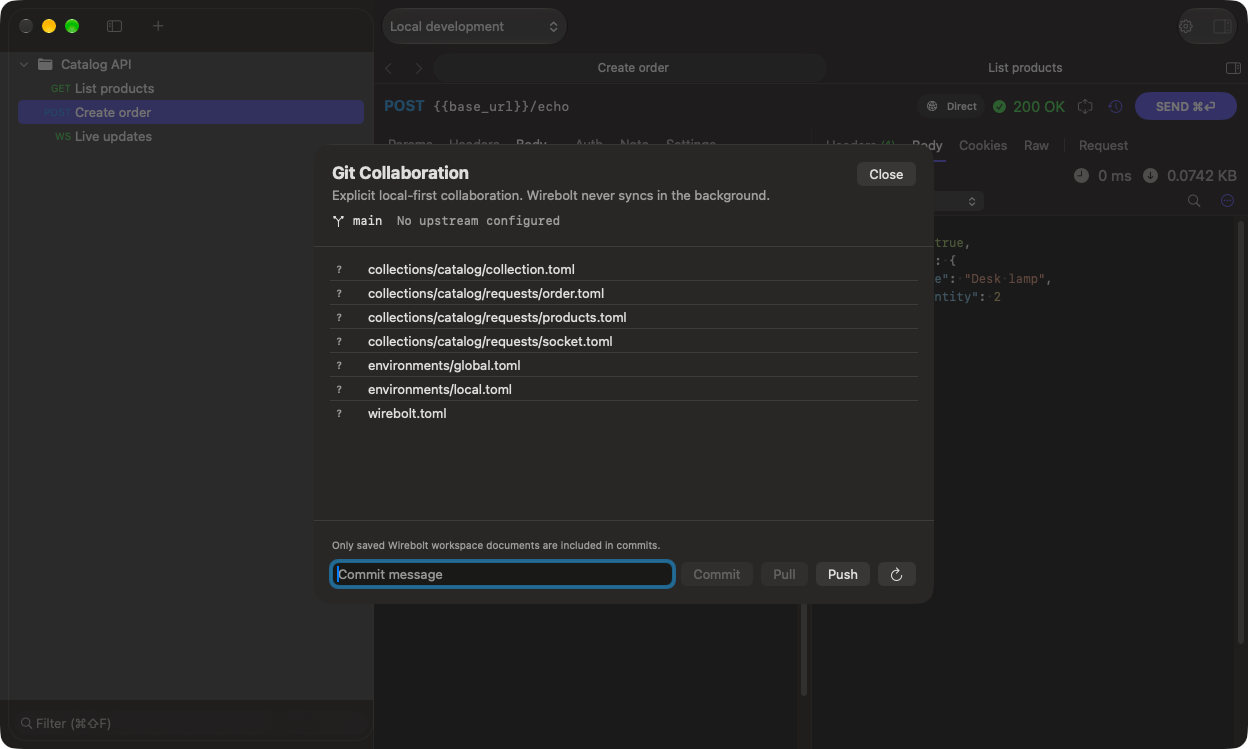
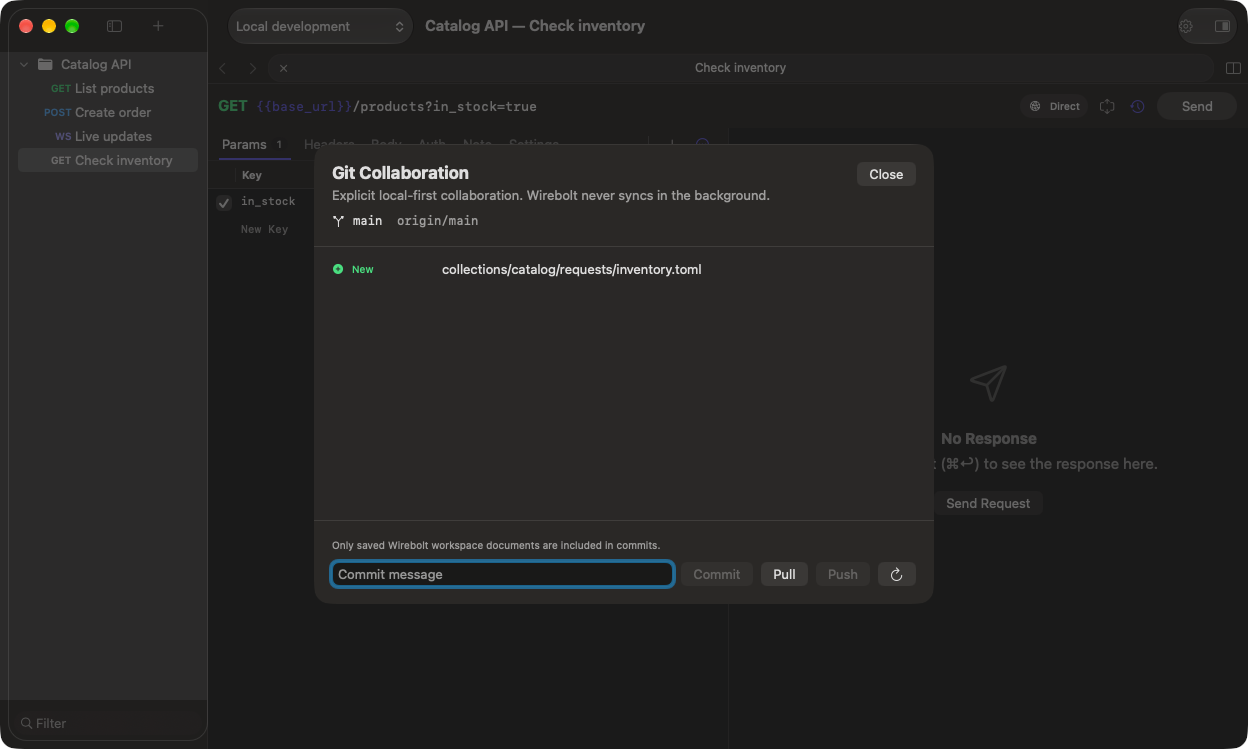
Refresh documentation screenshots for the new interface

diff --git a/docs/assets/README.md b/docs/assets/README.md
@@ -4,7 +4,7 @@
 
 `icon.png` is exported from the app's existing `AppIcon.icns`.
 
-Screenshots show Wirebolt at source revision `0378531`, using a disposable Catalog API workspace and local fixtures. Overview, notes, environments, WebSocket and Git images were captured from the running app window. The proxy image was rendered from the same native settings view and omits the surrounding window. These are actual app views, not design mockups or generated artwork.
+Screenshots show Wirebolt at source revision `324d11a`, using a disposable Catalog API workspace and local fixtures. Overview, notes, environments, WebSocket and Git images were captured from the running app window. The proxy image was rendered from the same native settings view and omits the surrounding window. These are actual app views, not design mockups or generated artwork.
 
 | Image | Demonstrates |
 | --- | --- |
@@ -13,6 +13,6 @@ Screenshots show Wirebolt at source revision `0378531`, using a disposable Catal
 | `screenshots/proxy.png` | Manual workspace proxy configuration; the displayed endpoint is illustrative, not a running proxy |
 | `screenshots/notes.png` | Native Markdown preview beside a real response |
 | `screenshots/websocket.png` | Text exchange with a local WebSocket echo fixture |
-| `screenshots/git.png` | Status of an isolated demo Git repository; no hosted remote |
+| `screenshots/git.png` | Status of an isolated demo Git repository with a local bare remote; no hosted service |
 
 To refresh: build current source, create a disposable workspace with demo data, run the local HTTP fixture, and capture the corresponding native views or visible app window. Use a WebSocket echo fixture for the socket view; the documented HTTP server does not implement that protocol. Check every image for credentials and private data, preserve legible text, and update this provenance and the relevant guide together. Do not use audit failure screenshots as product screenshots.
